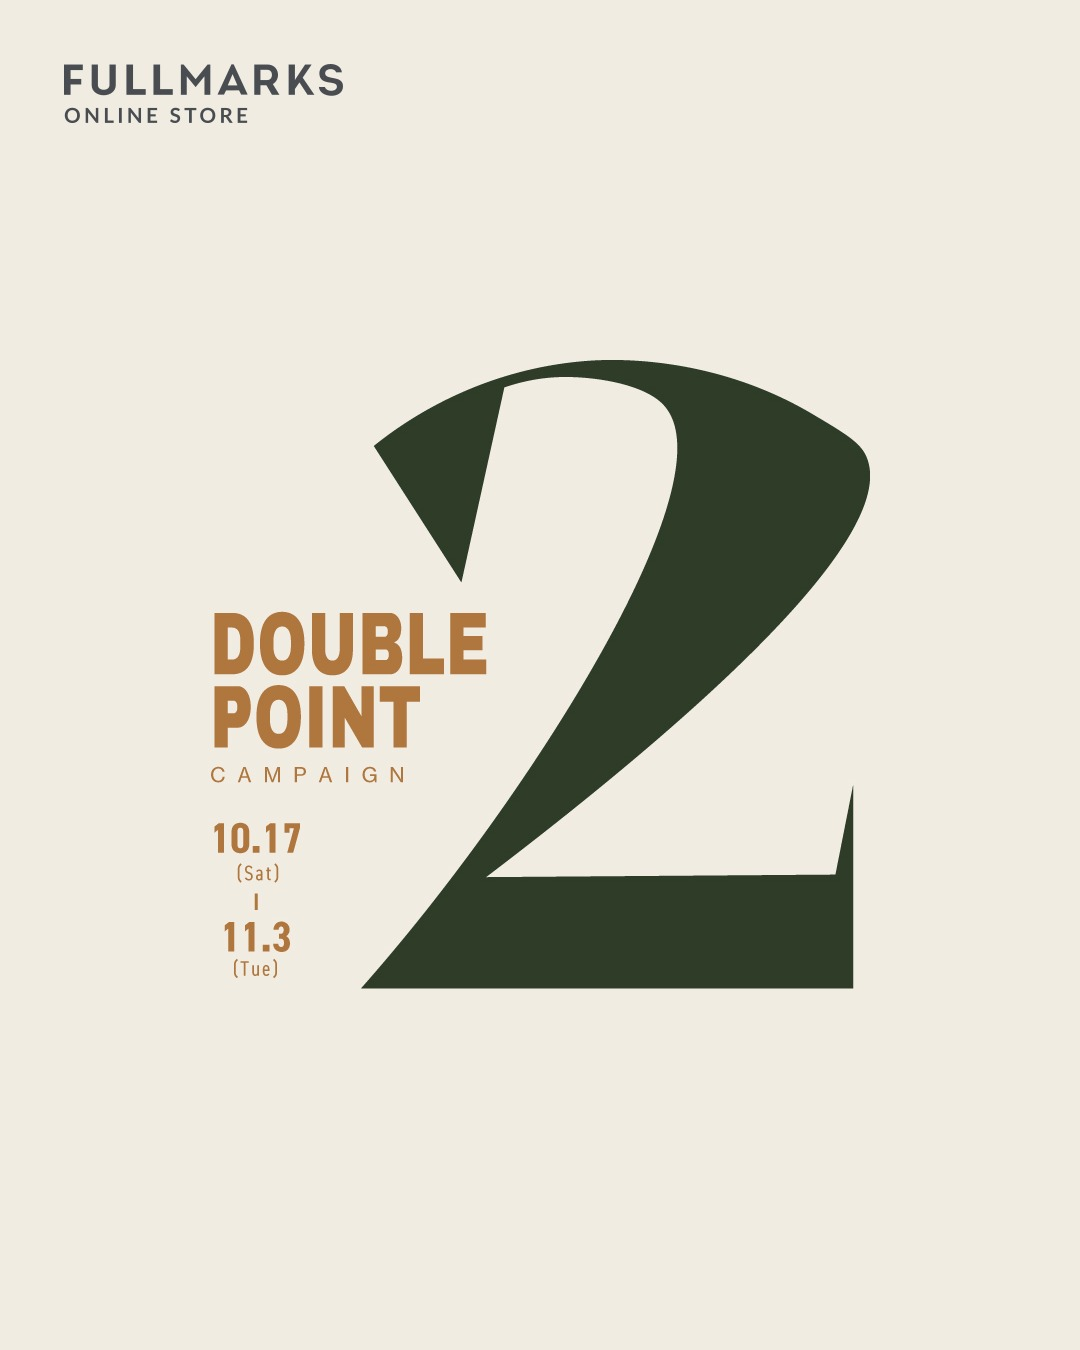
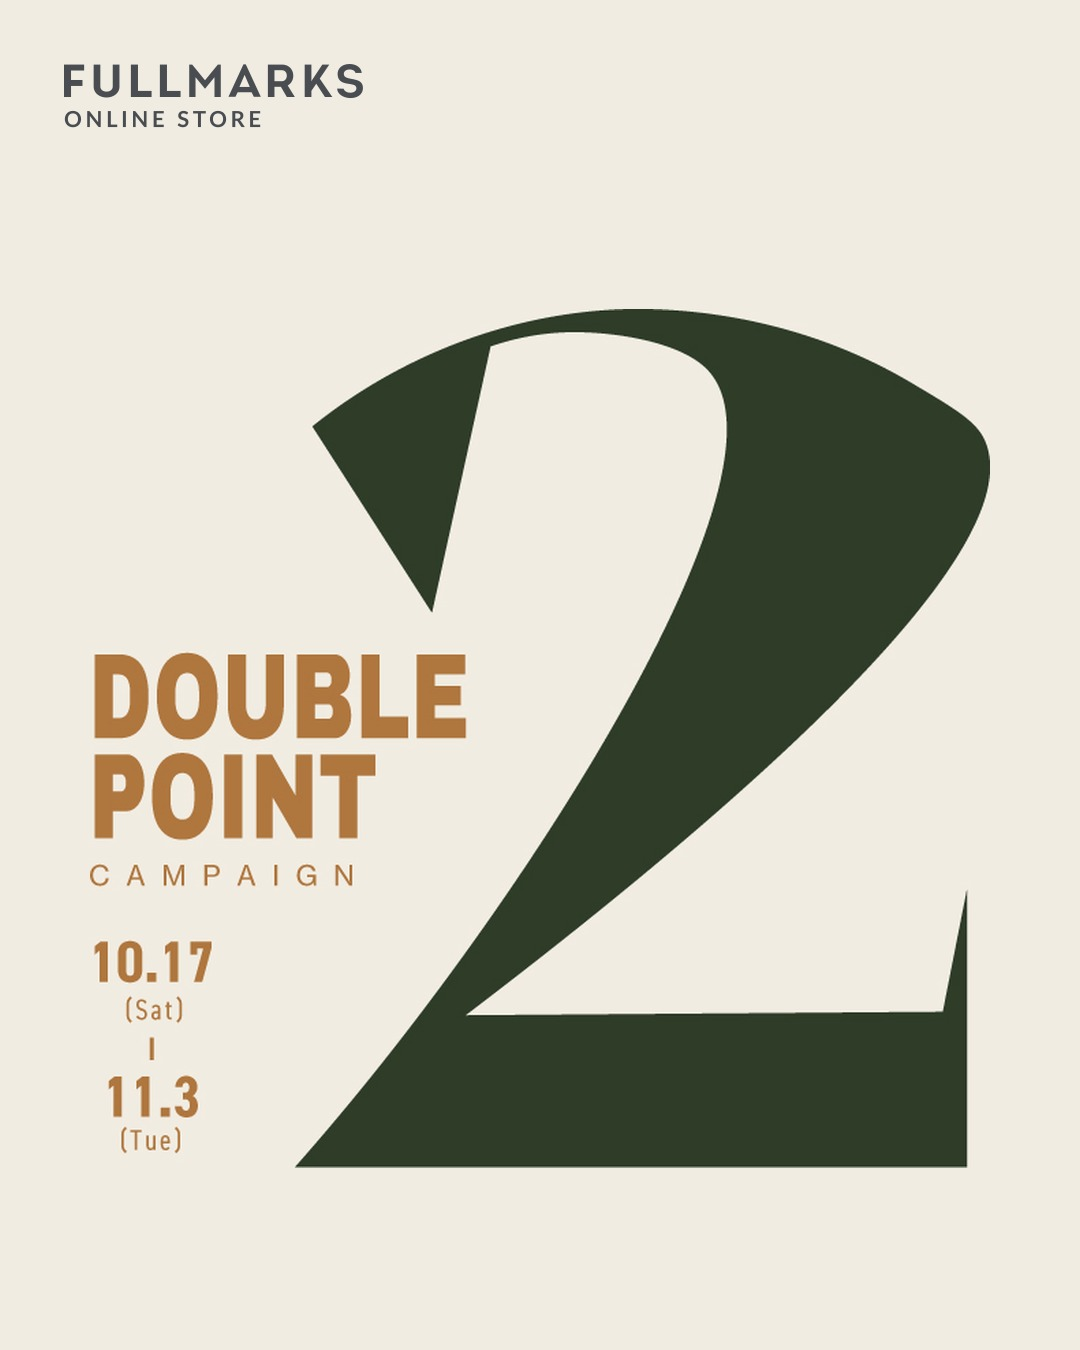
Double point ad: re-layout vertical sizes and swap the ad
Claude-Session: https://claude.ai/code/session_01EFkMa7pBd48FUqtUrcDcW8

Changed region(s): [[0.0611, 0.2178, 0.9167, 0.8711], [0.0917, 0.6844, 0.275, 0.8711], [0.0611, 0.0311, 0.3361, 0.0933]]

diff --git a/CLAUDE.md b/CLAUDE.md
@@ -315,7 +315,7 @@ FULLMARKS（fullmarksstore.jp）の広告運用ツール。Meta/Google広告のA
   RTG フーディニ 2,000→5,000 / ノローナ 800→2,500 / ポック 800→2,000 / アクリマ 500→1,000 / カタログ 7,000→5,000。合計 約3.3万円/日で10月は約80万の見込み
   → **10月の使い残しの11〜12月への繰り越しはほぼ0**（11・12月は元の計画額、BF 予備費10万は残る）。10/27 にペースとブランド別成績を確認。
   【10/19 夕方 完了】新広告6本すべて審査通過（ACTIVE）を確認し finalize 実行: 旧広告6本 PAUSED、上記の日予算に変更済み。
-- 【2026-10-19 配信開始（ユーザー指示「ダブルポイントの広告を出して」）】Meta キャンペーン UC_DN_3_CVS_DOUBLEPOINT2026 52613872650335（CBO 3,000円/日、11/3 23:50 停止）、広告セット 52613872652335（全員向け Advantage+・除外なし）、広告 52613872951935（3サイズ配置別・左上に FULLMARKS ロゴ。ロゴなしの旧 52613872660135 は停止、リンク先トップ＋utm_campaign=doublepoint2026）。画像は (Sta)→(Sat) 修正・下の文字削除（copy/creatives/doublepoint2026/）。Google コールアウト「11/3までポイント2倍」asset 431297407172 を指名検索5本に付与。Meta 利用上限 43万→47万。targets.json events[] と event_campaign_ids に登録。予約: 11/2 00:05 に 6,000円/日へ、11/3 23:50 にコールアウト削除・Meta 停止。
+- 【2026-10-19 配信開始（ユーザー指示「ダブルポイントの広告を出して」）】Meta キャンペーン UC_DN_3_CVS_DOUBLEPOINT2026 52613872650335（CBO 3,000円/日、11/3 23:50 停止）、広告セット 52613872652335（全員向け Advantage+・除外なし）、広告 52613873236135（3サイズ配置別・左上に FULLMARKS ロゴ・縦長は中身を拡大して組み直し。旧 52613872660135・52613872951935 は停止、リンク先トップ＋utm_campaign=doublepoint2026）。画像は (Sta)→(Sat) 修正・下の文字削除（copy/creatives/doublepoint2026/）。Google コールアウト「11/3までポイント2倍」asset 431297407172 を指名検索5本に付与。Meta 利用上限 43万→47万。targets.json events[] と event_campaign_ids に登録。予約: 11/2 00:05 に 6,000円/日へ、11/3 23:50 にコールアウト削除・Meta 停止。
   （以下は配信前のメモ）【2026-10-19 保留中】**秋のダブルポイントキャンペーン（10/17〜11/3）の広告**。ユーザー指示: イベント予算として扱う（通常運用と別計上、
   使用分は年間計画の調整月 2027-04 から差し引く）、リンク先はトップ、プロパー品を買ってほしい。文言は確認済み（copy/doublepoint2026.json:
   見出し「秋のダブルポイントキャンペーン｜11/3（火）まで」/ 本文「11/3（火）まで、対象商品のお買い物ポイントが2倍。…」）。Meta 全員向け（既存客も含める）
